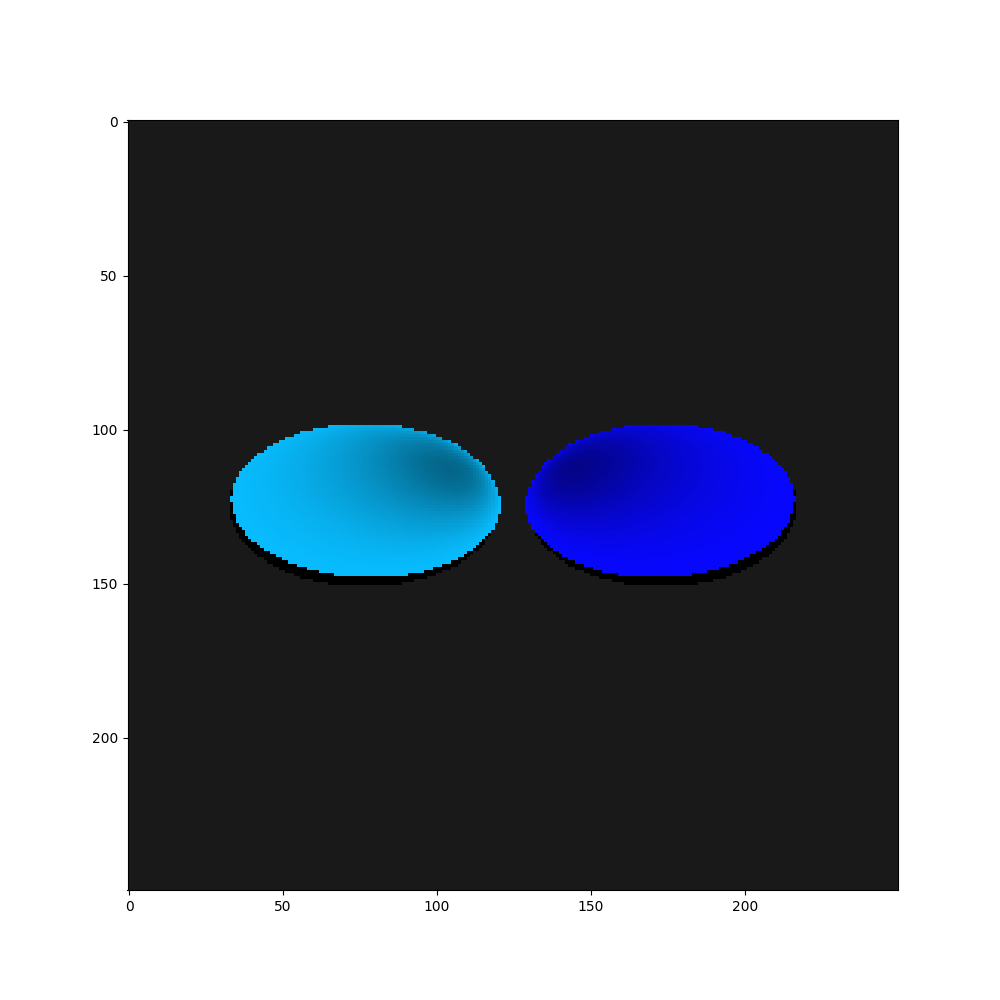
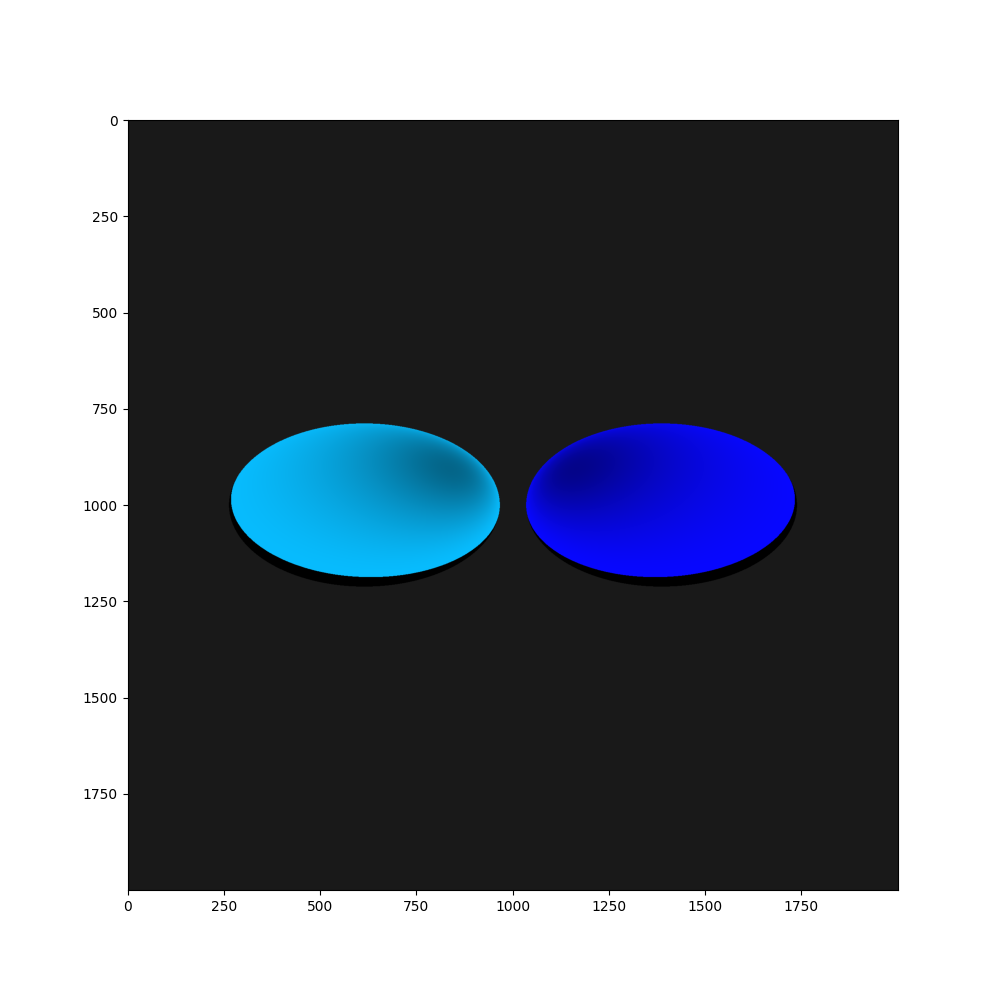
Add NumpyTracer: - Update README - Update pyproject.toml - Add NumpyTracer

diff --git a/PyTracer/main.py b/PyTracer/main.py
@@ -3,6 +3,7 @@ Main file.
 """
 
 import os
+import time
 import random
 from datetime import datetime
 
@@ -12,6 +13,22 @@ from src.point import Point
 from src.scene import Scene, SceneWithReflections
 from src.sphere import Sphere
 
+SCENE_W = 10
+SCENE_H = 10
+
+IMG_W = 2000
+IMG_H = 2000
+
+
+def time_func(f):
+    """
+    Time function call.
+    """
+    start = time.time()
+    f()
+    stop = time.time()
+    print(f"Function {f.__name__!r} executed in {(stop - start):.4f} s")
+
 
 def scene_1(n_max_reflections=0):
     """
@@ -20,12 +37,12 @@ def scene_1(n_max_reflections=0):
     # Create scene
     scene = (
         SceneWithReflections(
-            (10, 10),
-            (250, 250),
+            (SCENE_W, SCENE_H),
+            (IMG_W, IMG_H),
             n_max_reflections,
         )
         if n_max_reflections > 0
-        else Scene((10, 10), (250, 250))
+        else Scene((SCENE_W, SCENE_H), (IMG_W, IMG_H))
     )
 
     # Add objects
@@ -50,12 +67,12 @@ def scene_2(n_max_reflections=0):
     # Create scene
     scene = (
         SceneWithReflections(
-            (10, 10),
-            (250, 250),
+            (SCENE_W, SCENE_H),
+            (IMG_W, IMG_H),
             n_max_reflections,
         )
         if n_max_reflections > 0
-        else Scene((10, 10), (250, 250))
+        else Scene((SCENE_W, SCENE_H), (IMG_W, IMG_H))
     )
 
     # Add objects
@@ -81,12 +98,12 @@ def scene_3(n_max_reflections=0):
     # Create scene
     scene = (
         SceneWithReflections(
-            (10, 10),
-            (250, 250),
+            (SCENE_W, SCENE_H),
+            (IMG_W, IMG_H),
             n_max_reflections,
         )
         if n_max_reflections > 0
-        else Scene((10, 10), (250, 250))
+        else Scene((SCENE_W, SCENE_H), (IMG_W, IMG_H))
     )
 
     # Add objects
@@ -106,6 +123,7 @@ def scene_3(n_max_reflections=0):
     # Display
     scene.plot(f"results/scene_3_{n_max_reflections}.png")
 
+
 def scene_4(n_max_reflections=0):
     """
     Handle test scene 4.
@@ -113,12 +131,12 @@ def scene_4(n_max_reflections=0):
     # Create scene
     scene = (
         SceneWithReflections(
-            (10, 10),
-            (250, 250),
+            (SCENE_W, SCENE_H),
+            (IMG_W, IMG_H),
             n_max_reflections,
         )
         if n_max_reflections > 0
-        else Scene((10, 10), (250, 250))
+        else Scene((SCENE_W, SCENE_H), (IMG_W, IMG_H))
     )
 
     # Add objects
@@ -146,9 +164,9 @@ def random_scene(n_max_reflections=0):
     """
     # Create scene
     scene = (
-        SceneWithReflections((10, 10), (250, 250), n_max_reflections)
+        SceneWithReflections((SCENE_W, SCENE_H), (IMG_W, IMG_H), n_max_reflections)
         if n_max_reflections > 0
-        else Scene((10, 10), (250, 250))
+        else Scene((SCENE_W, SCENE_H), (IMG_W, IMG_H))
     )
 
     min_xy = -50
@@ -203,11 +221,16 @@ if __name__ == "__main__":
     os.chdir(dname)
 
     # Test
-    for i in range(4):
-        # scene_1(i)
-        # scene_2(i)
-        # scene_3(i)
-        scene_4(i)
+    time_func(scene_1)
+    # scene_2(0)
+    # scene_3(0)
+    # scene_4(0)
+
+    # for i in range(4):
+    #     scene_1(i)
+    #     scene_2(i)
+    #     scene_3(i)
+    #     scene_4(i)
 
     # for _ in range(10):
     #     random_scene()

diff --git a/PyTracer/src/color.py b/PyTracer/src/color.py
@@ -2,6 +2,8 @@
 This module contains the Color class.
 """
 
+from __future__ import annotations
+
 
 class Color:
     """
@@ -25,21 +27,25 @@ class Color:
     def __str__(self):
         return f"Color(r={self.r}, g={self.g}, b={self.b})"
 
-    def __add__(self, other):
+    def __add__(self, other: Color) -> Color:
+        if not isinstance(other, Color):
+            raise TypeError(f"Cannot add a Color to object of type {type(other)}.")
         return Color(self.r + other.r, self.g + other.g, self.b + other.b)
 
-    def __iadd__(self, other):
+    def __iadd__(self, other) -> Color:
+        if not isinstance(other, Color):
+            raise TypeError(f"Cannot add a Color to object of type {type(other)}.")
         return Color(self.r + other.r, self.g + other.g, self.b + other.b)
 
-    def __mul__(self, other):
+    def __mul__(self, other: int | float | Color) -> Color:
         if isinstance(other, (int, float)):
             return Color(self.r * other, self.g * other, self.b * other)
         if isinstance(other, Color):
             return Color(self.r * other.r, self.g * other.g, self.b * other.b)
-        raise ValueError(f"Cannot multiply a Color by object with type : {type(other)}")
+        raise TypeError(f"Cannot multiply a Color by object of type {type(other)}.")
 
     @classmethod
-    def from_rgb(cls, r: int, g: int, b: int) -> "Color":
+    def from_rgb(cls, r: int, g: int, b: int) -> Color:
         """
         Create color instance from RGB values.
 

diff --git a/PyTracer/src/point.py b/PyTracer/src/point.py
@@ -2,6 +2,8 @@
 This module contains the Point class.
 """
 
+from __future__ import annotations
+
 from math import sqrt
 
 
@@ -26,14 +28,21 @@ class Point:
     def __str__(self) -> str:
         return f"Point(x={self.x}, y={self.y}, z={self.z})"
 
-    def __eq__(self, other) -> bool:
+    def __eq__(self, other: Point) -> bool:
+        if not isinstance(other, Point):
+            raise TypeError(f"Cannot compare a Point to object of type {type(other)}.")
         return self.x == other.x and self.y == other.y and self.z == other.z
 
     @classmethod
-    def distance(cls, point_1: "Point", point_2: "Point") -> float:
+    def distance(cls, point_1: Point, point_2: Point) -> float:
         """
         Compute distance between two points.
         """
+        if not isinstance(point_1, Point) or not isinstance(point_2, Point):
+            raise TypeError(
+                "Cannot compute distance between objects of type "
+                f"{type(point_1)} and {type(point_1)}."
+            )
         if point_1 == point_2:
             return 0.0
         d_x = point_1.x - point_2.x

diff --git a/PyTracer/src/scene.py b/PyTracer/src/scene.py
@@ -48,8 +48,12 @@ class Scene:
             self.screen_size[0] / 2,
             self.screen_size[1] / 2,
         )  # Assuming screen size is even
-        self._delta_x = self.view_size[0] / self.screen_size[0]
-        self._delta_y = self.view_size[1] / self.screen_size[1]
+        self._delta_x = (
+            self.view_size[0] / self.screen_size[0]
+        )  # Horizontal space covered by a pixel
+        self._delta_y = (
+            self.view_size[1] / self.screen_size[1]
+        )  # Vertical space covered by a pixel
 
     def set_pixel_color(self, i: int, j: int, color: Color):
         """
@@ -94,7 +98,7 @@ class Scene:
             Ray: Ray from pixel.
         """
         screen_point = self.pixel_to_point(i, j)
-        return Ray(screen_point, Vector.from_points(omega, screen_point), BLACK)
+        return Ray(omega, Vector.from_points(omega, screen_point), BLACK)
 
     def is_ray_visible_from_point(self, ray: Ray, sphere: Sphere, point: Point) -> bool:
         """

diff --git a/PyTracer/src/vector.py b/PyTracer/src/vector.py
@@ -2,6 +2,8 @@
 This module contains the Vector class.
 """
 
+from __future__ import annotations
+
 from math import sqrt
 
 from .point import Point
@@ -59,14 +61,14 @@ class Vector:
         return self
 
     @classmethod
-    def from_points(cls, start: Point, stop: Point) -> "Vector":
+    def from_points(cls, start: Point, stop: Point) -> Vector:
         """
         Create vector from two points.
         """
         return Vector(stop.x - start.x, stop.y - start.y, stop.z - start.z)
 
     @classmethod
-    def dot_product(cls, a: "Vector", b: "Vector") -> float:
+    def dot_product(cls, a: Vector, b: Vector) -> float:
         """
         Compute the dot product between two vectors.
         """

diff --git a/PyTracer/src/sphere.py b/PyTracer/src/sphere.py
@@ -96,13 +96,14 @@ class Sphere:
         if delta < 0:  # Ray does not intersect sphere
             return None
         if delta == 0:  # Ray tangent to sphere
-            return ray.follow_ray(-Vector.dot_product(ray.dir, center_to_src))
+            return ray.follow_ray(-b / 2)
         sqrt_delta = sqrt(delta)
         r1 = -b - sqrt_delta
         r2 = -b + sqrt_delta
         if r1 < 0 and r2 < 0:  # Ray does not intersect sphere
             return None  # TODO why?
         # Ray intersects sphere
+        # Both solutions are positive because the ray source is not inside the sphere
         return ray.follow_ray(min(r1, r2) / 2)
 
     def diffused_color(self, ray: Ray, normal: Vector) -> Color:

diff --git a/PyTracer/src/ray.py b/PyTracer/src/ray.py
@@ -16,6 +16,8 @@ class Ray:
         """
         Initialise Ray instance.
 
+        Note: Normalise direction vector `dir`.
+
         Args:
             src (Point): Source.
             dir (Vector): Direction.

diff --git a/README.md b/README.md
@@ -1,10 +1,24 @@
 # 🎇 Ray Tracing
 
+![GitHub](https://img.shields.io/github/license/FABallemand/ray_tracing)
+![GitHub last commit](https://img.shields.io/github/last-commit/FABallemand/ray_tracing/main)
+![GitHub repo size](https://img.shields.io/github/repo-size/FABallemand/ray_tracing)
+[![Ruff](https://img.shields.io/endpoint?url=https://raw.githubusercontent.com/astral-sh/ruff/main/assets/badge/v2.json)](https://github.com/astral-sh/ruff)
+[![linting: pylint](https://img.shields.io/badge/linting-pylint-yellowgreen)](https://github.com/pylint-dev/pylint)
+[![Imports: isort](https://img.shields.io/badge/%20imports-isort-%231674b1?style=flat&labelColor=ef8336)](https://pycqa.github.io/isort/)
+
 ## 💬 Description
 
 In 3D computer graphics, ray tracing is a technique for modeling light transport for use in a wide variety of rendering algorithms for generating digital images. [Wikipedia](https://en.wikipedia.org/wiki/Ray_tracing_(graphics))
 
-This repository contains all my attemps at creating ray tracers.
+There is more than meets the eye in Python programming. Pure Python implementations are great if you want to avoid dependencies. On the other hand, using libraries is often recommended to gain both programming time and execution time as you use existing functions and rely on performance optimisations. One of the best optimisation consist of writing the core of the library not in Python but in C which is way faster at run time. But there is also a way to convert Python code to C...
 
-## Note
-- Use of **2 because Python >= 3.11
+To explore the benefits of these approaches, I implemented 3 times the same ray tracer:
+- **PyTracer** is a pure Python ray tracer with absolutely no third-party dependency.
+- As the name implies, **NumpyTracer** relies on the well known and well optimised Numpy library.
+- Finally, **CyTracer** uses Cython to convert Python code to C...
+- **BadTracer** is my first implementation of ray tracer from back when I had virtually no experience in programming! Please do not reproduce at home!
+
+## ⚖ Comparison
+
+Let's see which implementation is the fastest!
